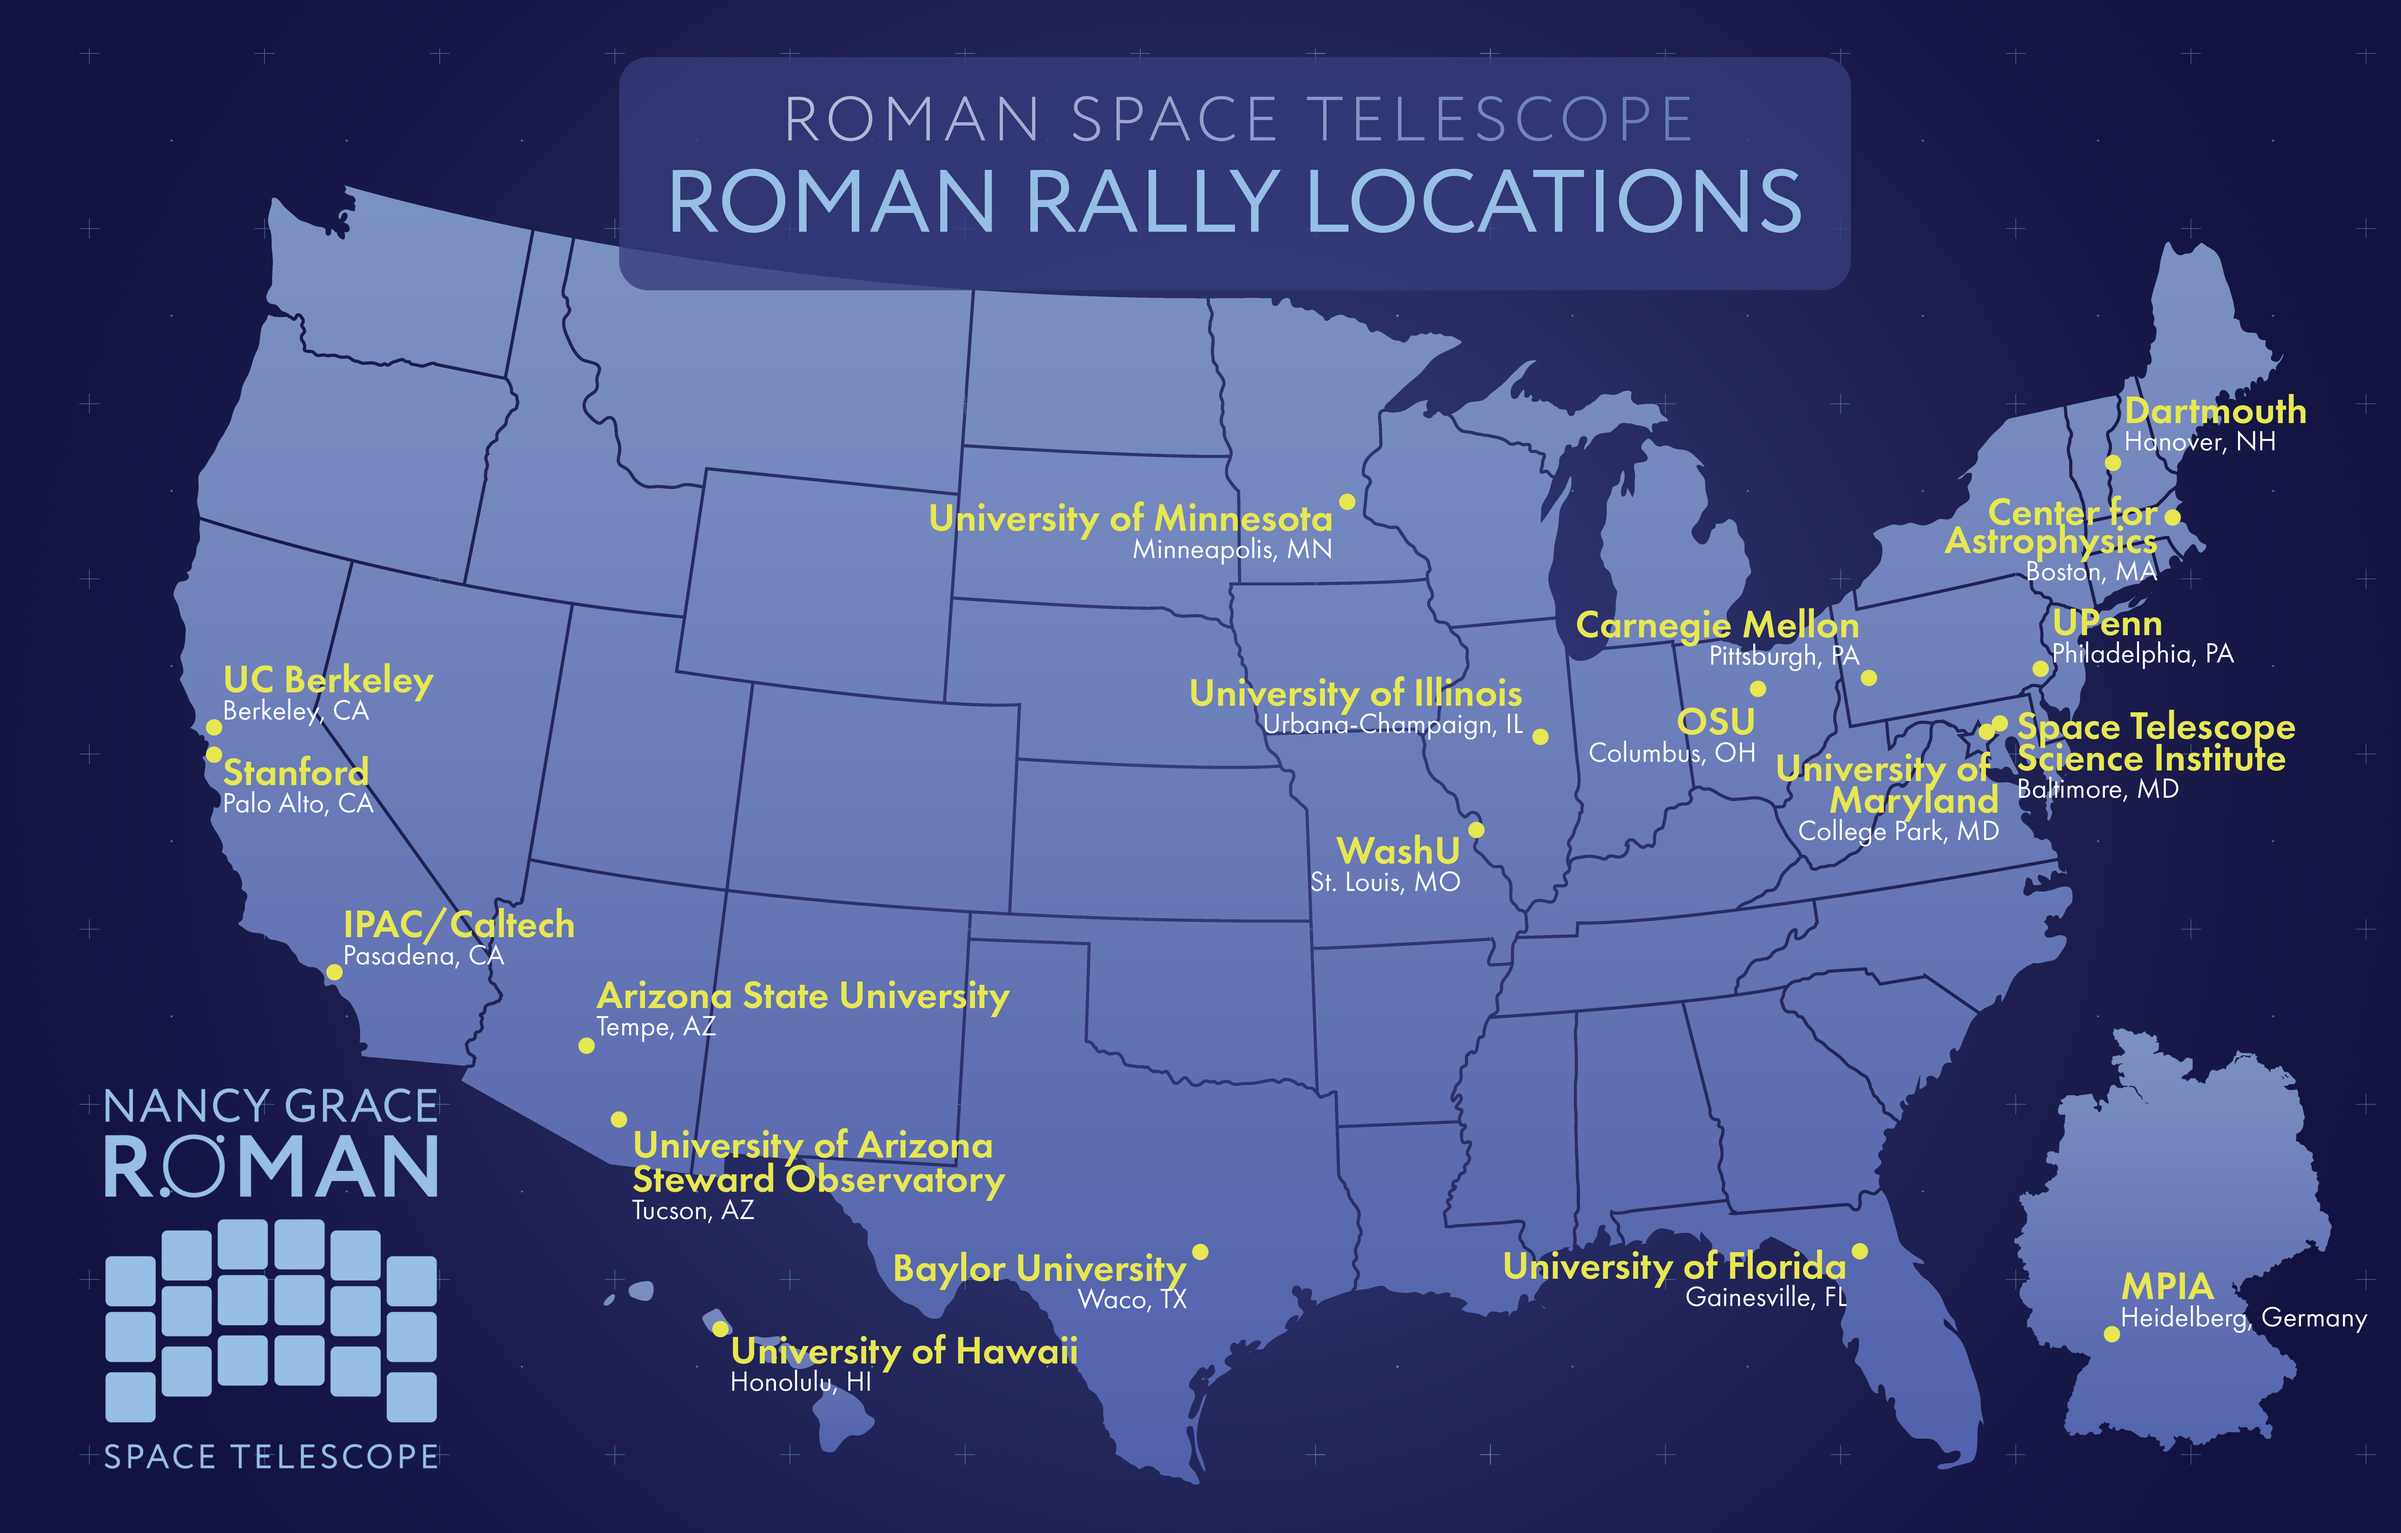
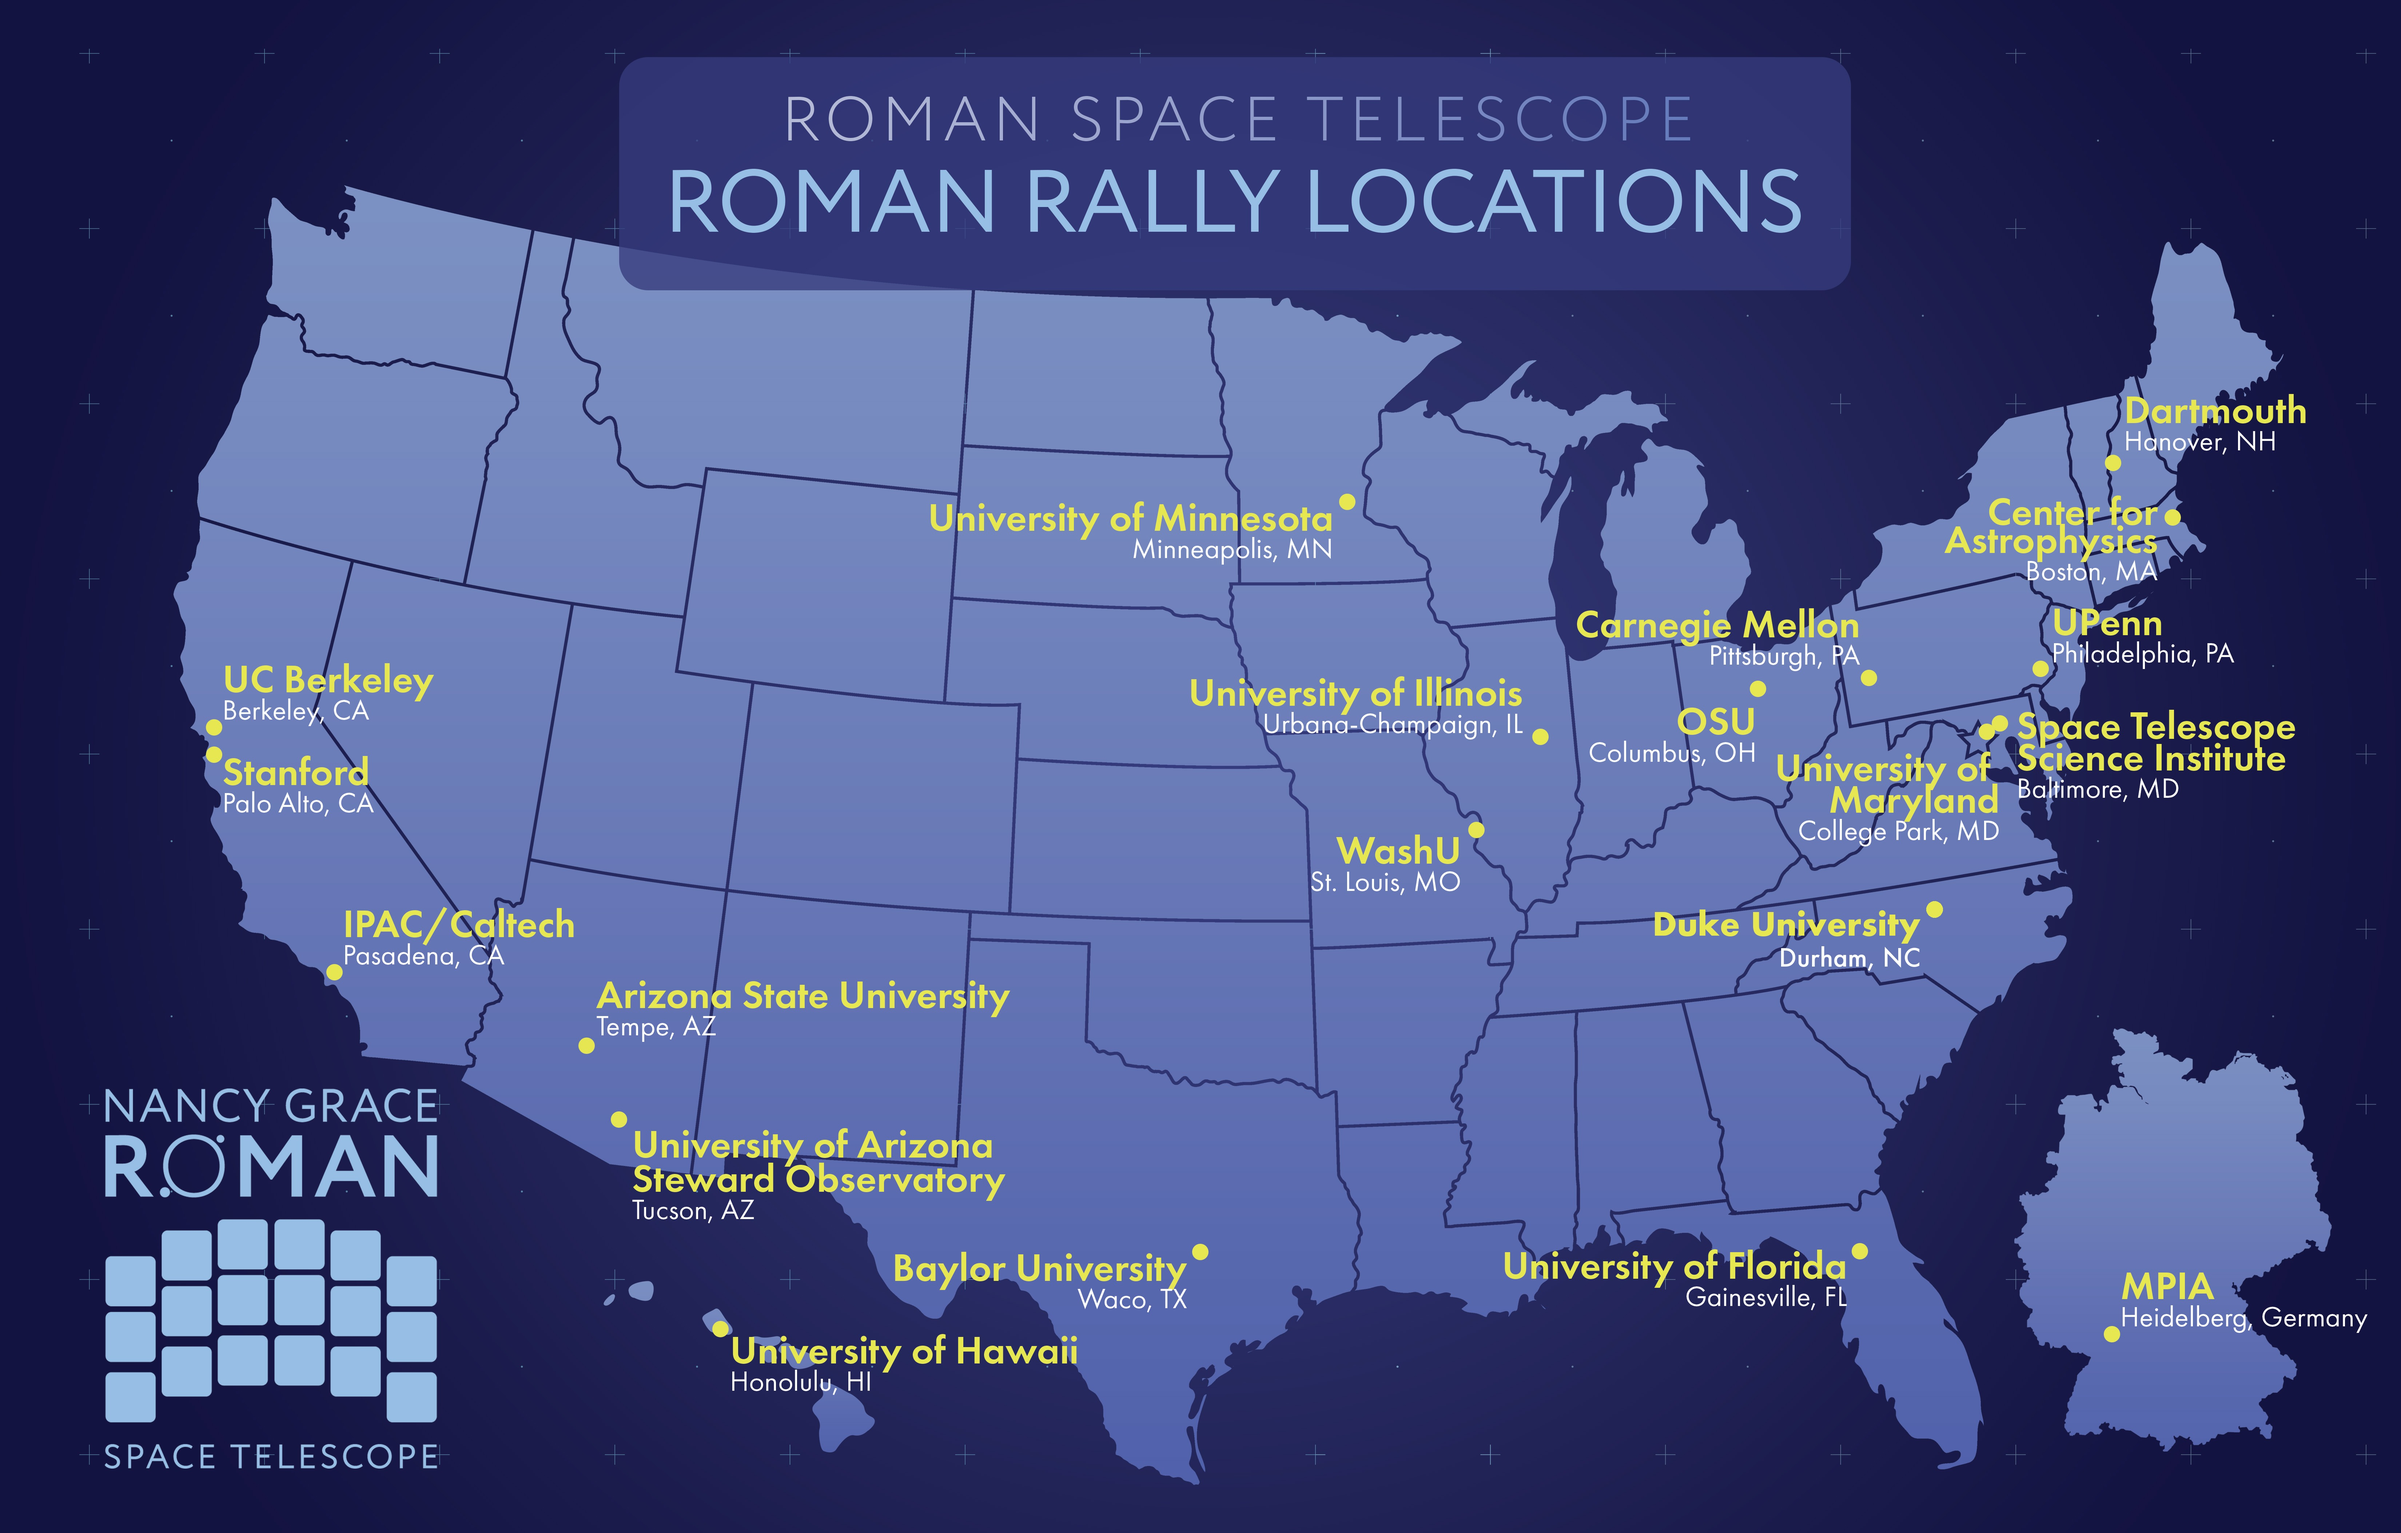
Update CfA and Illinois rooms, add Penn co-hosts, add Duke to map

diff --git a/_events/rally2026.md b/_events/rally2026.md
@@ -36,7 +36,7 @@ The following sites have signed up to host a Rally Room. Details for each room (
 
 <figure class="sites-map">
   <a href="{{ '/assets/images/roman-rally-locations.jpg' | relative_url }}">
-    <img src="{{ '/assets/images/roman-rally-locations.jpg' | relative_url }}" width="1024" height="646" alt="Map of Roman Rally locations across the United States: UC Berkeley, Stanford, Caltech / IPAC, Arizona State University, University of Arizona Steward Observatory, University of Hawaii, Baylor University, University of Minnesota, University of Illinois, WashU, University of Florida, Carnegie Mellon, OSU, University of Maryland, Space Telescope Science Institute, UPenn, Center for Astrophysics, and Dartmouth. An inset marks the Max Planck Institute for Astronomy in Heidelberg, Germany.">
+    <img src="{{ '/assets/images/roman-rally-locations.jpg' | relative_url }}" width="1024" height="646" alt="Map of Roman Rally locations across the United States: UC Berkeley, Stanford, Caltech / IPAC, Arizona State University, University of Arizona Steward Observatory, University of Hawaii, Baylor University, University of Minnesota, University of Illinois, WashU, University of Florida, Carnegie Mellon, OSU, University of Maryland, Space Telescope Science Institute, Duke University, UPenn, Center for Astrophysics, and Dartmouth. An inset marks the Max Planck Institute for Astronomy in Heidelberg, Germany.">
   </a>
 </figure>
 
@@ -50,7 +50,7 @@ The following sites have signed up to host a Rally Room. Details for each room (
     <tr><td>Ben Rose<br>Hallie Fausey<br>Moonzarin Reza</td><td>Baylor University</td><td>Waco, TX</td><td>Hurd Welcome Center</td><td>25</td></tr>
     <tr><td>Jennifer Sobeck</td><td>Caltech / IPAC</td><td>Pasadena, CA</td><td>Keith Spalding Building (TBD)</td><td>30</td></tr>
     <tr><td>Axel Guinot<br>Rachel Mandelbaum</td><td>Carnegie Mellon University</td><td>Pittsburgh, PA</td><td>Wean Hall, Rm 8330</td><td>10</td></tr>
-    <tr><td>Megan Masterson<br>Anya Nugent</td><td>CfA | Harvard &amp; Smithsonian</td><td>Cambridge, MA</td><td>CfA conference room (TBD)</td><td>30</td></tr>
+    <tr><td>Megan Masterson<br>Anya Nugent</td><td>CfA | Harvard &amp; Smithsonian</td><td>Cambridge, MA</td><td>Wolbach Meeting Room (CfA)</td><td>50</td></tr>
     <tr><td>Jaclyn Jensen<br>Ryan Hickox<br>Quinn Casey<br>Stephanie Podjed</td><td>Dartmouth College</td><td>Hanover, NH</td><td>Wilder Hall, Rm 111</td><td>10</td></tr>
     <tr><td>Dan Scolnic</td><td>Duke University</td><td>Durham, NC</td><td>Physics Building</td><td>25</td></tr>
     <tr><td>Ivelina Momcheva</td><td>Max Planck Institute for Astronomy (MPIA)</td><td>Heidelberg, Germany</td><td>MPIA Seminar Room (visitors must register with the hosts in advance)</td><td>20</td></tr>
@@ -61,10 +61,10 @@ The following sites have signed up to host a Rally Room. Details for each room (
     <tr><td>Tim Eifler<br>Xiaohui Fan<br>Ilaria Pascucci</td><td>University of Arizona</td><td>Tucson, AZ</td><td>Steward Observatory, Arizona Cosmology Lab</td><td>40</td></tr>
     <tr><td>Adam Ginsburg</td><td>University of Florida</td><td>Gainesville, FL</td><td>Bryant Space Science Center, Rm 401</td><td>20</td></tr>
     <tr><td>Dan Huber<br>David Rubin</td><td>University of Hawaii</td><td>Honolulu, HI</td><td>IfA Manoa Library (C-108)</td><td>30</td></tr>
-    <tr><td>Mingyang Zhuang<br>Yue Shen</td><td>University of Illinois Urbana-Champaign</td><td>Urbana, IL</td><td>Astro Atlas room</td><td>15</td></tr>
+    <tr><td>Mingyang Zhuang<br>Yue Shen</td><td>University of Illinois Urbana-Champaign</td><td>Urbana, IL</td><td>Kaler Classroom, Astronomy Building</td><td>25</td></tr>
     <tr><td>Tathagata Pal<br>Charlie Mpetha<br>Isak G. Wold<br>Rosalia D. O'Brien</td><td>University of Maryland</td><td>College Park, MD</td><td>University of Maryland (TBD)</td><td>20</td></tr>
     <tr><td>Aimee Schechter</td><td>University of Minnesota</td><td>Minneapolis, MN</td><td>Tate Hall, Rm 201/301</td><td>45</td></tr>
-    <tr><td>Robyn Sanderson</td><td>University of Pennsylvania</td><td>Philadelphia, PA</td><td>David Rittenhouse Labs, 4N9/4N11</td><td>20</td></tr>
+    <tr><td>Robyn Sanderson<br>Mike Jarvis<br>Adrien Thob<br>Cole Meldorf</td><td>University of Pennsylvania</td><td>Philadelphia, PA</td><td>David Rittenhouse Labs, 4N9/4N11</td><td>20</td></tr>
     <tr><td>Tansu Daylan<br>Bryce Wedig<br>Aysu Ece Saricaoglu<br>Zifan Lin</td><td>Washington University</td><td>St. Louis, MO</td><td>WashU Danforth campus (TBD)</td><td>150</td></tr>
   </tbody>
 </table>
